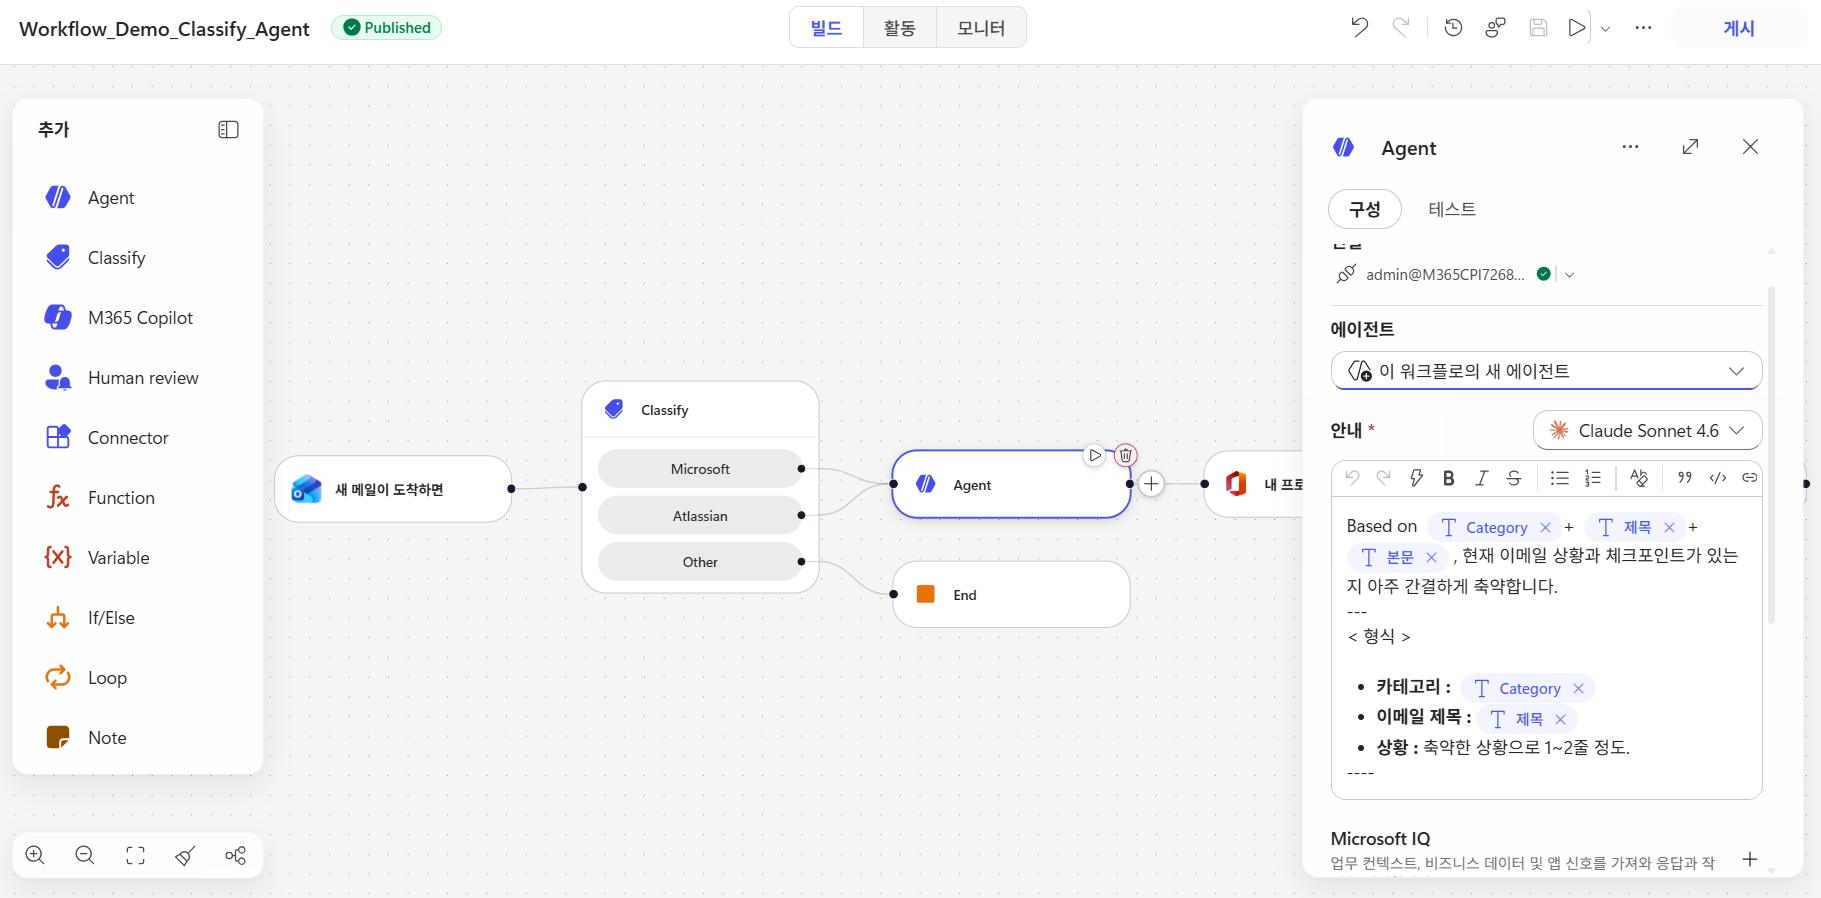
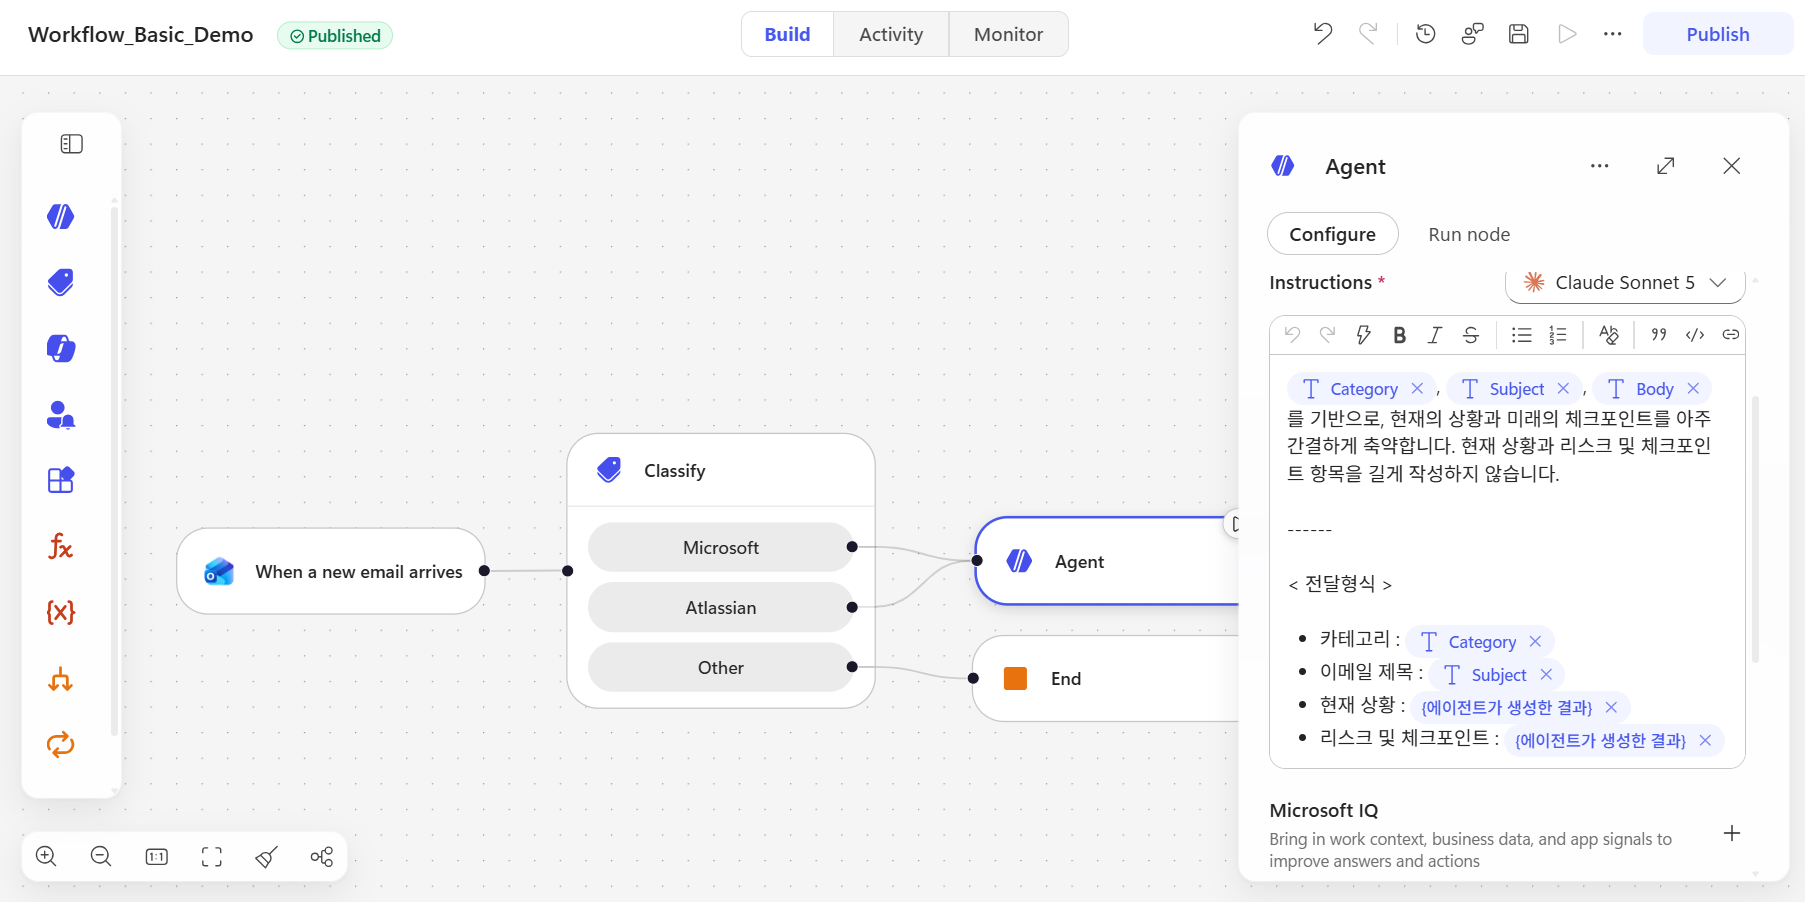
Update workshop markdown content and workflow images

diff --git a/sitecontent/m5-practice-1.md b/sitecontent/m5-practice-1.md
@@ -8,5 +8,110 @@ parent: Workflow
 
 [실습용 eml 파일 다운로드 2]({{ '/workflow_downloads/microsoft_email.eml' | relative_url }})
 
-# 실습 1 - Email 구분 Workflow 생성
+# Email 구분 Workflow 생성
+
+## Trigger 설정 
+
+새로운 Workflow를 생성하고, **Trigger Type을 Connector**로 변경합니다. 그리고 `Office 365 Outlook`의 `When a new email arrives` Connector를 연결합니다.
+
+![workflow-1-1](../image/workflow-1-1.png)  
+![workflow-1-2](../image/workflow-1-2.png)
+
+<br>
+
+## Classify 활용 
+
+workflow의 새로운 기능인 `Classify`를 활용하여, 이메일 제목과 본문 내용을 기반으로 이메일을 AI 기능을 통해 사전 정의된 카테고리로 분류해보겠습니다. 
+
+**Input to classify (Input)** 부분의 Trigger Output인 `Subject`와 `Body`를 선택합니다. 
+
+![workflow-1-3](../image/workflow-1-3.png)
+
+**Categories** 부분에는 이메일을 분류할 카테고리를 정의합니다. 예를 들어, `Atlassian`과 `Microsoft` 두 가지 카테고리를 정의합니다. 
+
+각 카테고리 설명에는 아래와 같이 이메일 제목과 본문 내용에 포함될 수 있는 키워드 및 예제문을 작성합니다. 
+
+**Microsoft :** Azure, Microsoft 365, Copilot, Power Platform, Microsoft Trial (예시)
+
+**Atlassian :** Jira, Confluence, Trello, Bitbucket, Atlassian Trial (예시)
+
+![workflow-1-4](../image/workflow-1-4.png)
+
+Other 항목은 자동 생성됩니다. 
+
+<br>
+
+## Inline Agent 생성 
+
+Other 항목으로 분류되지 않은 이메일, 즉 Microsoft와 Atlassian 항목은 Inline Agent를 생성하여, 해당 이메일을 기반으로 현재 상황 및 risk point를 분석하도록 동적콘텐츠를 선택하고 지침을 작성합니다. 
+
+![workflow-1-5](../image/workflow-1-5.png)
+
+### 지침 예시 
+
+```text
+[Category 동적 콘텐츠 선택], [Subject 동적 콘텐츠 선택], [Body 동적 콘텐츠 선택] 를 기반으로, 현재의 상황과 미래의 체크포인트를 아주 간결하게 축약합니다. 현재 상황과 리스크 및 체크포인트 항목을 길게 작성하지 않습니다.
+
+------ 
+
+< 전달형식 > 
+
+카테고리 : [Category 동적 콘텐츠 선택]
+이메일 제목 : [Subject 동적 콘텐츠 선택]
+현재 상황 : {{에이전트가 생성한 결과}} 
+리스크 및 체크포인트 : {{에이전트가 생성한 결과}}
+```
+
+이와 같이 해당 workflow를 위해 새로운 Inline Agent를 생성할 수도 있고, 기존에 **게시된** 에이전트를 선택하여 사용할 수도 있습니다. 
+
+Agent를 완성했다면, **해당 에이전트 노드에서 길게 선을 빼내어 Atlassian 카테고리에도 연결합니다.**
+
+### Tip 
+
+New workflow에서는 AI Prompt (AI builder) 기능이 사라졌습니다! **해당 Agent 커넥터는 기존의 AI Prompt를 New experience에서 대체합니다.** 
+
+<br>
+
+## End 연결 
+
+**Other** 항목으로 분류된 이메일은 추가의 Step 없이 해당 workflow를 종료하도록 **End**를 연결합니다. 
+
+![workflow-1-6](../image/workflow-1-6.png)
+
+<br>
+
+## Teams Connector 연결 
+
+Microsoft Teams 커넥터의 Post message in a chat or channel 액션을 사용합니다. 사용자의 개인 Teams 채팅으로 Flow bot이 해당 알림을 보내도록 설정하겠습니다. 
+
+**Post as:** Flow bot  
+**Post in:** Chat with Flow bot 
+**Post message request Recipient:** 실습 대상자의 UPN 
+**Message:** [Agent.AgentResponse 동적 콘텐츠] 
+
+![workflow-1-7](../image/workflow-1-7.png)
+
+<br>
+
+## 전체 Workflow 
+
+아래와 같이 workflow를 완성했습니다! 
+
+![workflow-1-8](../image/workflow-1-8.png)  
+
+------------------------------------------------
+
+# Email 구분 Workflow 테스트 
+
+위에서 다운로드 받은 eml 파일을 열어서, Outlook 앱에서 스스로에게 전달 (foward) 해봅니다. 
+
+![workflow-1-9](../image/workflow-1-9.png)
+
+Workflow 윗쪽 탭의 Activity 란에서 해당 workflow의 Run 및 상세한 Input / Output을 관찰할 수 있습니다. 
+
+Teams로 다음과 같이 workflow 혹은 flow bot 에게 메세지가 온다면, 성공입니다! 
+
+![workflow-1-10](../image/workflow-1-10.png)
+
+> Teams 관리자가 Workflow App을 허용하지 않았다면, 해당 기능은 실습이 불가능합니다. 이 경우 Outlook 과 같이 대체 Connector를 연결하여 실습하세요. 
 

diff --git a/sitecontent/m2-practice-2-1.md b/sitecontent/m2-practice-2-1.md
@@ -132,21 +132,21 @@ Skill > Upload a skill 을 통해 아까 생성한 혹은 다운로드 받은 zi
 
 에이전트가 완성되었습니다. 
 
-![News Letter Agent-2-4]({{ '/image/email-2-1-4.png' | relative_url }}) 
+![News Letter Agent-2-4](../image/email-2-1-4.png) 
 
 -------------------------------
 <br>
 
 ## 테스트 
 
-![News Letter Agent-2-5]({{ '/image/email-2-1-5.png' | relative_url }}) 
-![News Letter Agent-2-6]({{ '/image/email-2-1-6.png' | relative_url }})  
+![News Letter Agent-2-5](../image/email-2-1-5.png) 
+![News Letter Agent-2-6](../image/email-2-1-6.png)  
 
 Skill을 호출하고, 연결된 Draft an message Tool도 정확히 사용하는 것을 볼 수 있습니다. 
 
 최종 결과물은 Outlook > 임시보관함 내에서 확인할 수 있습니다! 
 
-![News Letter Agent-2-7]({{ '/image/email-2-1-7.png' | relative_url }}) 
+![News Letter Agent-2-7](../image/email-2-1-7.png) 
 
 <br>
 
